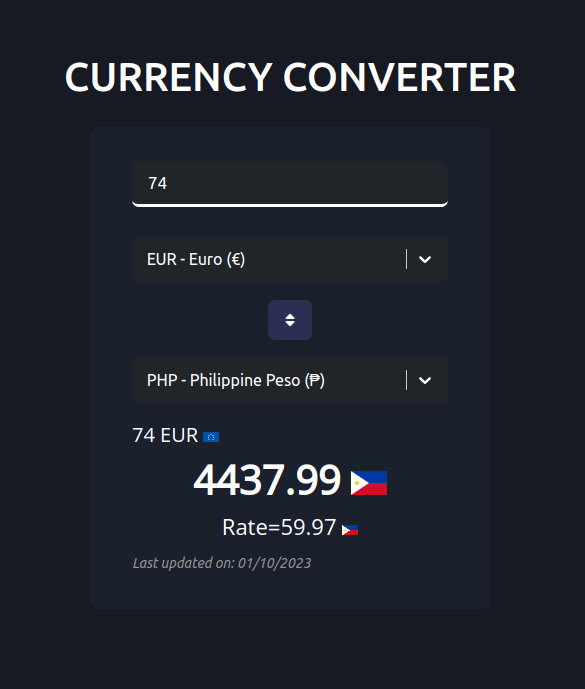
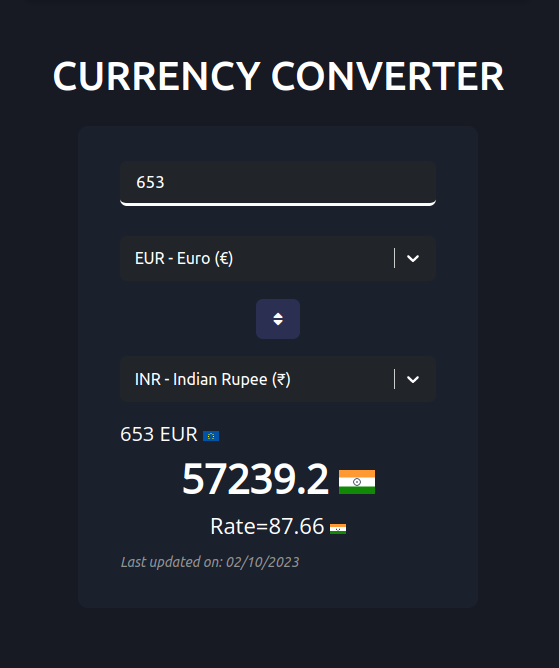
React Currency Converter

diff --git a/src/components/Dropdown/index.ts b/src/components/Dropdown/index.ts
@@ -3,7 +3,19 @@ export const customStyles = {
     ...provided,
     maxHeight: "226px",
     backgroundColor: "rgb(33, 37, 41)",
+    borderRadius: "7px", 
+    padding: "0",
     color: "#fff",
+    '&::-webkit-scrollbar': {
+      width: '2.5px',
+    },
+    '&::-webkit-scrollbar-thumb': {
+      backgroundColor: '#2d3338',
+    },
+  }),
+  menu: (provided: any) => ({
+    ...provided,
+    borderRadius: "15px",
   }),
   option: (provided: any, state: any) => ({
     ...provided,

diff --git a/src/components/CurrencyConverter/CurrencyConverter.tsx b/src/components/CurrencyConverter/CurrencyConverter.tsx
@@ -8,7 +8,7 @@ import "./index.css";
 
 const CurrencyConverter: React.FC = () => {
   const [from, setFrom] = useState<string>("EUR - Euro (€)");
-  const [into, setInto] = useState<string>("PHP - Philippine Peso (₱)");
+  const [into, setInto] = useState<string>("INR - Indian Rupee (₹)");
   const [loading, setLoading] = useState<boolean>(false);
   const [amount, setAmount] = useState<string>("1");
   const [currencyResult, setCurrencyResult] = useState<string>("");
